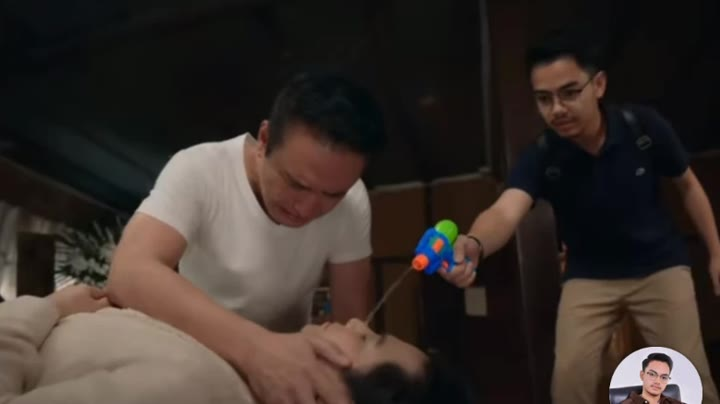
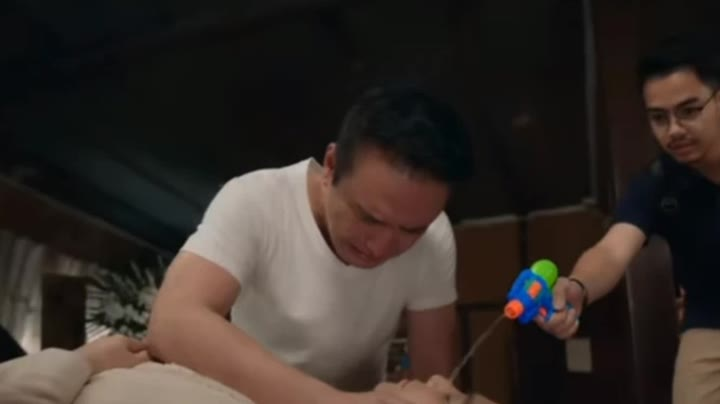
Even out captions, fix stats overlap, enlarge SU highlights
- Clamp clip titles to two lines so every row lines up
- Stat rows size to their content so large numbers no longer overlap
- Andy Levine and Mason Maggio players shown large, talking heads 2x2
- Recrop Batang Quiapo still to drop the TikTok avatar overlay

diff --git a/index.html b/index.html
@@ -218,13 +218,25 @@
   .views.hot { background: var(--amber); color: #1a1206; }
   .flag { top: 8px; font-size: 10px; letter-spacing: .06em; text-transform: uppercase; color: var(--amber); border: 1px solid rgba(255, 181, 71, .4); }
   .reel .cap { font-size: 14px; line-height: 1.4; }
-  .reel .cap small { display: block; font-family: var(--mono); font-size: 11px; color: var(--muted); margin-top: 3px; }
+  .reel .cap .t {
+    display: -webkit-box; -webkit-box-orient: vertical; -webkit-line-clamp: 2; line-clamp: 2;
+    overflow: hidden; min-height: 2.8em;
+  }
+  .reel .cap small {
+    display: block; font-family: var(--mono); font-size: 11px; color: var(--muted); margin-top: 3px;
+    white-space: nowrap; overflow: hidden; text-overflow: ellipsis;
+  }
 
+  .reels.su-grid { grid-template-columns: 2.3fr 2.3fr 1fr 1fr; align-items: start; }
+  .su-grid .big { grid-row: span 2; }
+  .su-grid .big .cap { font-size: 17px; }
+  .su-grid .big .cap .t { font-family: var(--display); font-weight: 700; }
+  .su-grid .big .cap small { font-size: 12px; }
   .stats { margin-top: 22px; display: grid; gap: 12px; }
   .stats-label, .stats-now { font-family: var(--mono); font-size: 11px; color: var(--muted); letter-spacing: .04em; }
   .stats-label { text-transform: uppercase; letter-spacing: .1em; }
   .stats-now b { color: var(--text); font-weight: 500; }
-  .stat-row { display: grid; grid-template-columns: repeat(3, minmax(0, 1fr)); gap: 12px; }
+  .stat-row { display: flex; flex-wrap: wrap; align-items: flex-end; gap: 14px 32px; }
   .stat-row div { display: grid; gap: 2px; }
   .stat-row b { font-family: var(--display); font-weight: 800; font-size: clamp(26px, 3.4vw, 34px); line-height: 1; letter-spacing: -.02em; font-variant-numeric: tabular-nums; }
   .stat-row div:first-child b { color: var(--amber); font-size: clamp(38px, 5vw, 52px); }
@@ -484,6 +496,8 @@
     .caps, .certs { grid-template-columns: 1fr; }
     .contact-grid { grid-template-columns: 1fr; }
     .pair, .longform { grid-template-columns: 1fr; }
+    .reels.su-grid { grid-template-columns: repeat(2, minmax(0, 1fr)); }
+    .su-grid .big { grid-row: auto; }
     .pair > div + div { margin-top: 56px; }
     .quotes { grid-template-columns: repeat(2, minmax(0, 1fr)); }
     .ai, .photos { grid-template-columns: 1fr; }
@@ -634,27 +648,27 @@
       <div class="reels">
         <a class="reel" href="https://www.tiktok.com/@thevlogbites/video/7660822244444228872" target="_blank" rel="noopener">
           <div class="thumb"><img src="media/tt/7660822244444228872.jpg" alt="" loading="lazy"><span class="views hot">▶ 2.5M</span></div>
-          <div class="cap">Mom finds out her daughter kissed a guy<small>Laude family</small></div>
+          <div class="cap"><span class="t">Mom finds out her daughter kissed a guy</span><small>Laude family</small></div>
         </a>
         <a class="reel" href="https://www.tiktok.com/@thevlogbites/video/7667539117760204040" target="_blank" rel="noopener">
           <div class="thumb"><img src="media/tt/7667539117760204040.jpg" alt="" loading="lazy"><span class="views hot">▶ 1M</span></div>
-          <div class="cap">Jay R on favoritism and pressure at ASAP<small>Pop culture clip</small></div>
+          <div class="cap"><span class="t">Jay R on ASAP favoritism</span><small>Pop culture clip</small></div>
         </a>
         <a class="reel" href="https://www.tiktok.com/@thevlogbites/video/7667645117691415816" target="_blank" rel="noopener">
           <div class="thumb"><img src="media/tt/7667645117691415816.jpg" alt="" loading="lazy"><span class="views hot">▶ 943.4K</span></div>
-          <div class="cap">5 kids, 2 wives, and a secret<small>Pop culture clip</small></div>
+          <div class="cap"><span class="t">5 kids, 2 wives, and a secret</span><small>Pop culture clip</small></div>
         </a>
         <a class="reel" href="https://www.tiktok.com/@thevlogbites/video/7664796552904461586" target="_blank" rel="noopener">
           <div class="thumb"><img src="media/tt/7664796552904461586.jpg" alt="" loading="lazy"><span class="flag">Campaign</span><span class="views">▶ 408.5K</span></div>
-          <div class="cap">Del Monte × Vice Ganda: me justifying my cravings<small>Paid campaign via Whop</small></div>
+          <div class="cap"><span class="t">Del Monte × Vice Ganda</span><small>Paid campaign via Whop</small></div>
         </a>
         <a class="reel" href="https://www.tiktok.com/@thevlogbites/video/7672738782604512530" target="_blank" rel="noopener">
           <div class="thumb"><img src="media/tt/7672738782604512530.jpg" alt="" loading="lazy"><span class="flag">Campaign</span></div>
-          <div class="cap">Sienna Spiro × Stell: from covering her song to meeting her<small>Artist campaign</small></div>
+          <div class="cap"><span class="t">Sienna Spiro × Stell</span><small>Artist campaign</small></div>
         </a>
         <a class="reel" href="https://www.tiktok.com/@thevlogbites/video/7673078462298688775" target="_blank" rel="noopener">
           <div class="thumb"><img src="media/tt/7673078462298688775.jpg" alt="" loading="lazy"><span class="views">▶ 22.8K</span></div>
-          <div class="cap">Toni on years of audition rejections<small>Featured edit</small></div>
+          <div class="cap"><span class="t">Toni on years of rejections</span><small>Featured edit</small></div>
         </a>
       </div>
     </div>
@@ -668,30 +682,30 @@
           <a class="acct-link" href="https://www.instagram.com/successunlockedenespanol" target="_blank" rel="noopener">Instagram (Español) ↗</a>
         </div>
       </div>
-      <div class="reels">
-        <figure class="reel" style="margin:0">
+      <div class="reels su-grid">
+        <figure class="reel big" style="margin:0">
           <div class="thumb vplayer"><video data-src="media/andy-levine.mp4" poster="media/andy-levine.jpg" playsinline controls></video><button class="bigplay" type="button" aria-label="Play Andy Levine clip">▶</button></div>
-          <figcaption class="cap">Andy Levine: Built on Belonging<small>0:59 · plays here</small></figcaption>
+          <figcaption class="cap"><span class="t">Andy Levine: Built on Belonging</span><small>0:59 · plays here</small></figcaption>
         </figure>
-        <figure class="reel" style="margin:0">
+        <figure class="reel big" style="margin:0">
           <div class="thumb vplayer"><video data-src="media/mason-maggio.mp4" poster="media/mason-maggio.jpg" playsinline controls></video><button class="bigplay" type="button" aria-label="Play Mason Maggio clip">▶</button></div>
-          <figcaption class="cap">Mason Maggio: NASCAR's next rookie of the year<small>0:40 · plays here</small></figcaption>
+          <figcaption class="cap"><span class="t">Mason Maggio: NASCAR's next rookie of the year</span><small>0:40 · plays here</small></figcaption>
         </figure>
         <a class="reel" href="https://www.tiktok.com/@successunlocked_official/video/7662812579152022798" target="_blank" rel="noopener">
           <div class="thumb"><img src="media/tt/7662812579152022798.jpg" alt="" loading="lazy"></div>
-          <div class="cap">People stole from him and lied to his face<small>Dominique Wilkins · TikTok</small></div>
+          <div class="cap"><span class="t">They stole from him and lied</span><small>Dominique Wilkins · TikTok</small></div>
         </a>
         <a class="reel" href="https://www.tiktok.com/@successunlocked_official/video/7686512100138552590" target="_blank" rel="noopener">
           <div class="thumb"><img src="media/tt/7686512100138552590.jpg" alt="" loading="lazy"></div>
-          <div class="cap">Leadership goes beyond titles<small>Trixy Castro · TikTok</small></div>
+          <div class="cap"><span class="t">Leadership goes beyond titles</span><small>Trixy Castro · TikTok</small></div>
         </a>
         <a class="reel" href="https://www.tiktok.com/@successunlocked_official/video/7679461218611957006" target="_blank" rel="noopener">
           <div class="thumb"><img src="media/tt/7679461218611957006.jpg" alt="" loading="lazy"></div>
-          <div class="cap">Nobody can give you confidence<small>Dominique Wilkins · TikTok</small></div>
+          <div class="cap"><span class="t">Nobody can give you confidence</span><small>Dominique Wilkins · TikTok</small></div>
         </a>
         <a class="reel" href="https://www.tiktok.com/@successunlocked_official/video/7686241726826122510" target="_blank" rel="noopener">
           <div class="thumb"><img src="media/tt/7686241726826122510.jpg" alt="" loading="lazy"></div>
-          <div class="cap">Ideas mean nothing without execution<small>Trixy Castro · TikTok</small></div>
+          <div class="cap"><span class="t">Ideas mean nothing without execution</span><small>Trixy Castro · TikTok</small></div>
         </a>
       </div>
     </div>
@@ -705,15 +719,15 @@
         <div class="reels">
         <a class="reel" href="https://www.tiktok.com/@laescuelanueva_/video/7680598130332601614" target="_blank" rel="noopener">
           <div class="thumb"><img src="media/tt/7680598130332601614.jpg" alt="" loading="lazy"></div>
-          <div class="cap">Tu marca no es solo un logotipo<small>TikTok · ES</small></div>
+          <div class="cap"><span class="t">Tu marca no es solo un logotipo</span><small>TikTok · ES</small></div>
         </a>
         <a class="reel" href="https://www.tiktok.com/@laescuelanueva_/video/7679051446091894030" target="_blank" rel="noopener">
           <div class="thumb"><img src="media/tt/7679051446091894030.jpg" alt="" loading="lazy"></div>
-          <div class="cap">Evento en vivo con La Loba<small>TikTok · ES</small></div>
+          <div class="cap"><span class="t">Evento en vivo con La Loba</span><small>TikTok · ES</small></div>
         </a>
         <a class="reel" href="https://www.tiktok.com/@laescuelanueva_/video/7678024678006377741" target="_blank" rel="noopener">
           <div class="thumb"><img src="media/tt/7678024678006377741.jpg" alt="" loading="lazy"></div>
-          <div class="cap">¿Autoempleo o negocio?<small>TikTok · ES</small></div>
+          <div class="cap"><span class="t">¿Autoempleo o negocio?</span><small>TikTok · ES</small></div>
         </a>
         </div>
       </div>
@@ -728,15 +742,15 @@
         <div class="reels">
         <a class="reel" href="https://www.instagram.com/reel/DdZYogzlCLh/" target="_blank" rel="noopener">
           <div class="thumb"><img src="media/ig/DdZYogzlCLh.jpg" alt="" loading="lazy"></div>
-          <div class="cap">Dolly Parton didn’t wait on good luck<small>Instagram Reel</small></div>
+          <div class="cap"><span class="t">Dolly Parton didn’t wait on good luck</span><small>Instagram Reel</small></div>
         </a>
         <a class="reel" href="https://www.instagram.com/reel/DcmSHbElEgn/" target="_blank" rel="noopener">
           <div class="thumb"><img src="media/ig/DcmSHbElEgn.jpg" alt="" loading="lazy"></div>
-          <div class="cap">Shift your mindset, shift your reality<small>Instagram Reel</small></div>
+          <div class="cap"><span class="t">Shift your mindset, shift your reality</span><small>Instagram Reel</small></div>
         </a>
         <a class="reel" href="https://www.instagram.com/reel/DcliQjjDBa9/" target="_blank" rel="noopener">
           <div class="thumb"><img src="media/ig/DcliQjjDBa9.jpg" alt="" loading="lazy"></div>
-          <div class="cap">Alone in New York with no meetings lined up<small>Instagram Reel</small></div>
+          <div class="cap"><span class="t">Alone in NYC, no meetings</span><small>Instagram Reel</small></div>
         </a>
         </div>
       </div>
@@ -760,11 +774,11 @@
               <button type="button" class="lf-fs" aria-label="Fullscreen">⛶</button>
             </div>
           </div>
-          <div class="cap">The Human Highlight Film<small>Trixy Castro sits down with Dominique Wilkins · 8:42 · plays here</small></div>
+          <div class="cap"><span class="t">The Human Highlight Film</span><small>Trixy Castro sits down with Dominique Wilkins · 8:42 · plays here</small></div>
         </div>
         <a class="lf lf-link" href="https://drive.google.com/file/d/1uGTfAcfpKbQROjZL7s5LegiO92qqmpMl/view" target="_blank" rel="noopener">
           <div class="frame"><img src="media/adam-dorfman.jpg" alt="" loading="lazy"><span class="open">Watch on Google Drive ↗</span></div>
-          <div class="cap">Adam Dorfman: Built From the Ground Up<small>Full Success Unlocked episode</small></div>
+          <div class="cap"><span class="t">Adam Dorfman: Built From the Ground Up</span><small>Full Success Unlocked episode</small></div>
         </a>
       </div>
     </div>
@@ -797,11 +811,11 @@
       <div class="photos">
         <a class="photo-set" href="https://www.tiktok.com/@garcianehemiah_/photo/7463426522825624840" target="_blank" rel="noopener">
           <div class="mosaic"><img src="media/personal/campus-1.jpg" alt="" loading="lazy"><img src="media/personal/campus-2.jpg" alt="" loading="lazy"><img src="media/personal/campus-3.jpg" alt="" loading="lazy"><img src="media/personal/campus-4.jpg" alt="" loading="lazy"></div>
-          <div class="cap">A day in 3rd-year CompSci<small>Photo set · 26 photos · TikTok</small></div>
+          <div class="cap"><span class="t">A day in 3rd-year CompSci</span><small>Photo set · 26 photos · TikTok</small></div>
         </a>
         <a class="photo-set" href="https://www.tiktok.com/@garcianehemiah_/photo/7462961802192620808" target="_blank" rel="noopener">
           <div class="mosaic"><img src="media/personal/street-1.jpg" alt="" loading="lazy"><img src="media/personal/street-2.jpg" alt="" loading="lazy"><img src="media/personal/street-3.jpg" alt="" loading="lazy"><img src="media/personal/street-4.jpg" alt="" loading="lazy"></div>
-          <div class="cap">Street photography<small>Photo set · 15 photos · TikTok</small></div>
+          <div class="cap"><span class="t">Street photography</span><small>Photo set · 15 photos · TikTok</small></div>
         </a>
       </div>
     </div>
